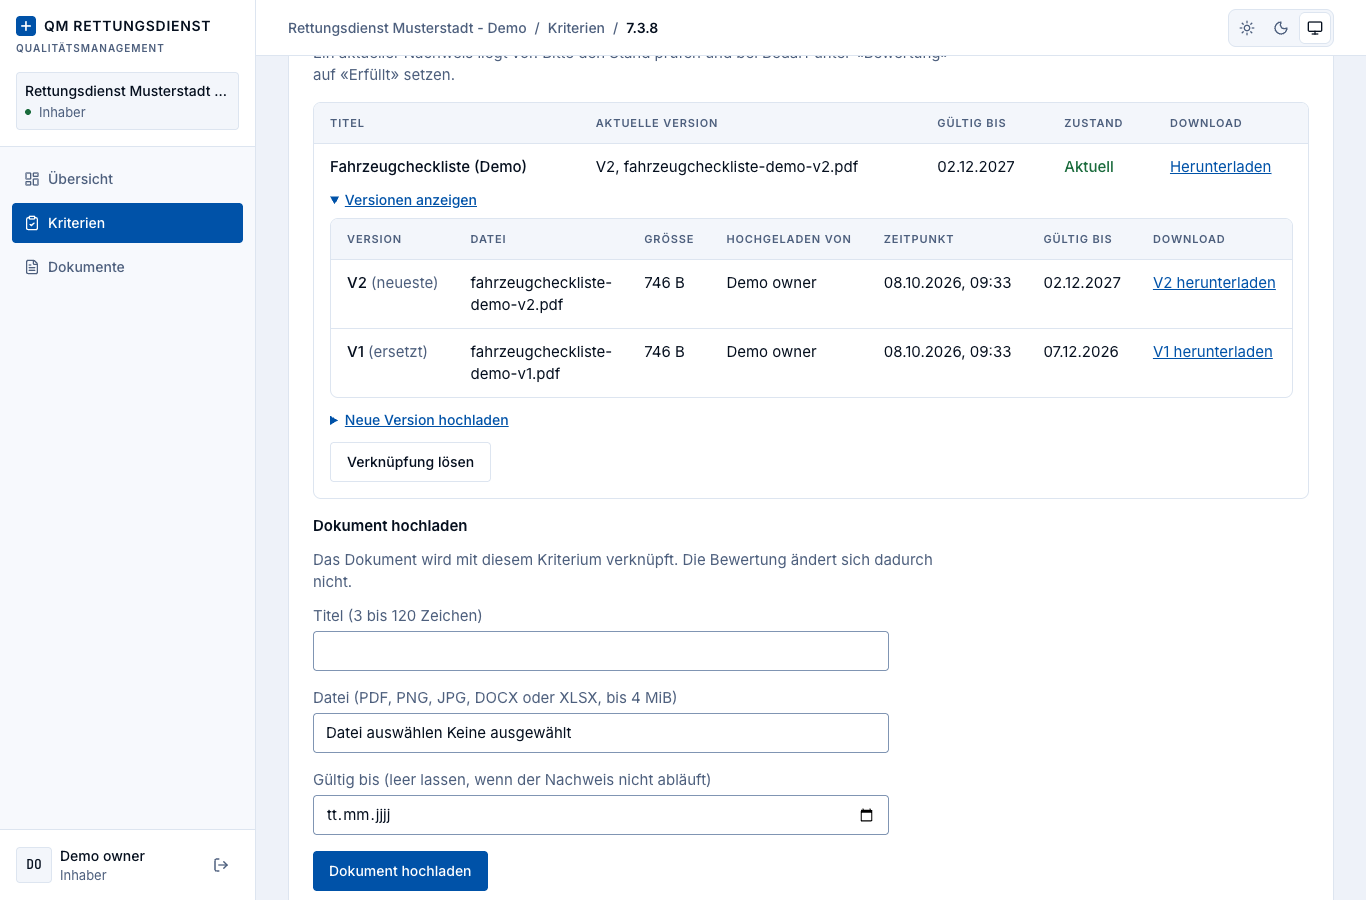
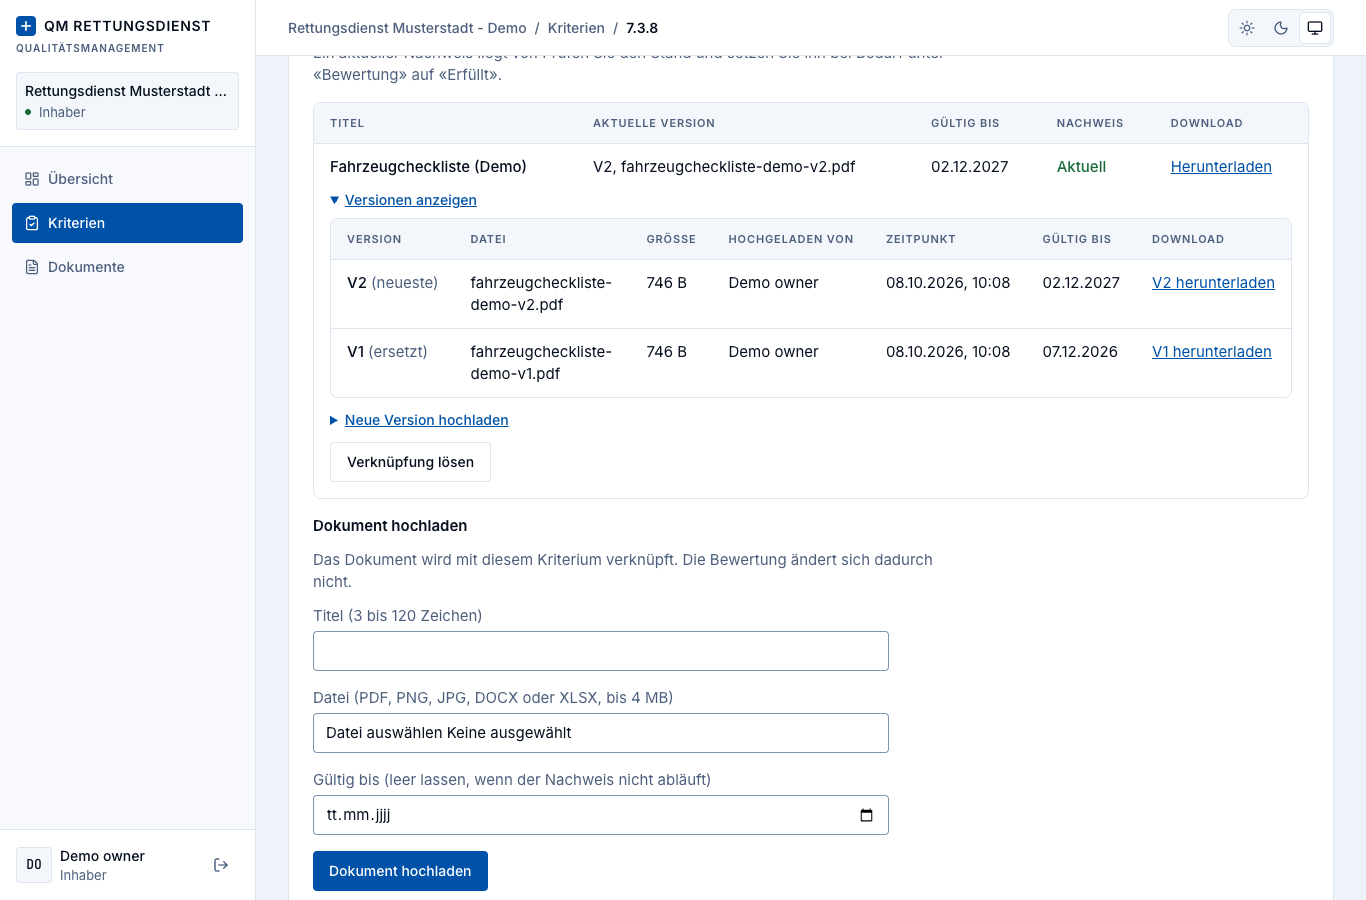
docs(qm): final freeze screenshots and pitch narrative

diff --git a/qm/docs/demo/DEMO-FLOW.md b/qm/docs/demo/DEMO-FLOW.md
@@ -2,6 +2,14 @@
 
 Ziel: In einer Sitzung zeigen, dass die Arbeitsfläche Lücken sichtbar macht, Nachweise sauber versioniert und jede Änderung nachvollziehbar festhält. Die App ist eine interne Arbeitsbewertung auf Basis eines nicht validierten Katalog-Entwurfs. Sie trifft keine Entscheidung des IVR und stellt keine IVR-Zertifizierung in Aussicht. Das gilt für jeden Satz der Präsentation.
 
+## Kernbotschaft (so kurz wie möglich)
+
+1. **86 % dokumentiert. Trotzdem kritisch.**
+2. **Zwei Pflichtkriterien verhindern die Readiness.**
+3. **Hier sehen wir warum, wer handeln muss, bis wann, und welche Nachweise fehlen oder veraltet sind.**
+
+Alles im Ablauf unten dient diesen drei Sätzen. Wenn die Zeit knapp wird, genügen die Schritte 2 bis 9. Fortschritt und Readiness bleiben getrennte Aussagen: Der Prozentwert beeinflusst den Status nie.
+
 ## Vorbereitung (vor dem Termin, 5 Minuten)
 
 1. Aufruf nur über `https://qm-rettungsdienst-demo-git-feat-qm-abeddf-brain-byt-es-projects.vercel.app` (der Alias legt die erlaubte Herkunft fest). Das Deployment ist durch Vercel Authentication geschützt; wer präsentiert, ist bei Vercel angemeldet.
@@ -16,7 +24,7 @@ Ziel: In einer Sitzung zeigen, dass die Arbeitsfläche Lücken sichtbar macht, N
 | Min | Schritt | Was gezeigt wird | Satz dazu |
 | --- | --- | --- | --- |
 | 0:00 | 1. Anmelden als Owner | Login, Organisation «Rettungsdienst Musterstadt - Demo», Rolle «Inhaber» | «Eine Organisation pro Zugang, Rollen sind serverseitig durchgesetzt.» |
-| 0:30 | 2. Übersicht | Readiness «Kritisch», Dokumentationsstand 86 %, 43 von 50 Kriterien erfüllt | «Fortschritt und Bereitschaft sind getrennte Zahlen. 86 % Fortschritt heissen nicht bereit.» |
+| 0:30 | 2. Übersicht | Karte «Readiness» mit Status «Kritisch», Dokumentationsstand 86 %, 43 von 50 Kriterien erfüllt | «Fortschritt und Bereitschaft sind getrennte Zahlen. 86 % Fortschritt heissen nicht bereit.» |
 | 1:30 | 3. Warum kritisch | Zwei kritische Pflichtkriterien, drei offene, zwei als nicht anwendbar markierte Pflichtkriterien mit Link | «Nicht anwendbar geht nur mit Begründung und steht offen in der Übersicht.» |
 | 2:30 | 4. Braucht Aufmerksamkeit | Priorisierte Liste: kritische Punkte, veraltete Nachweise, überfällige Massnahme, Frist in 20 Tagen, gebündelter Hinweis auf fehlende Nachweise | «Die Liste sagt, was als Nächstes zu tun ist, nicht nur, was fehlt.» |
 | 3:30 | 5. Kriterium 7.3.10 Hygiene | Stand, Frist, Nachweis «Veraltet», verknüpftes Dokument mit Ablaufdatum 08.09.2026 | «Ein abgelaufener Nachweis ändert den Stand nicht automatisch, er wird aber sichtbar.» |

diff --git a/tasks/todo.md b/tasks/todo.md
@@ -3,9 +3,9 @@
 ## Plan 7: Freeze, Rehearsal & Pitch Hardening (ab 2026-10-08)
 - [x] R51: echter 404 (Proxy-Check, auf Vercel verifiziert: 404/404/307)
 - [x] Zugangsprozess dokumentiert (qm/docs/demo/ACCESS.md)
-- [ ] Demo-Flow pro Rolle live durchspielen (Henrik), danach reseeden
-- [ ] Fallback-Screenshots neu aufnehmen (neues Layout)
-- [ ] UI-Copy glätten, Pitch-Narrativ mit Produkt abgleichen
-- [ ] Feature Freeze
+- [x] Demo-Flow live automatisiert (5 Rollen 61/61, Owner-Pfad 10/10, Reseed erledigt)
+- [x] Fallback-Screenshots final
+- [x] UI-Copy geglättet, Pitch-Narrativ aktualisiert
+- [x] Feature Freeze (Plan 7 COMPLETE)
 - Backlog nach Freeze: Stitch-Kriteriendetail (8/4-Layout), Massnahmen-Register, PDCA-Stufe B. Nicht jetzt.
 - Hygiene: leeres Neon-Resource iad1 im Vercel-Dashboard löschen; Production-Branch auf feat/qm-foundation stellen (optional)
